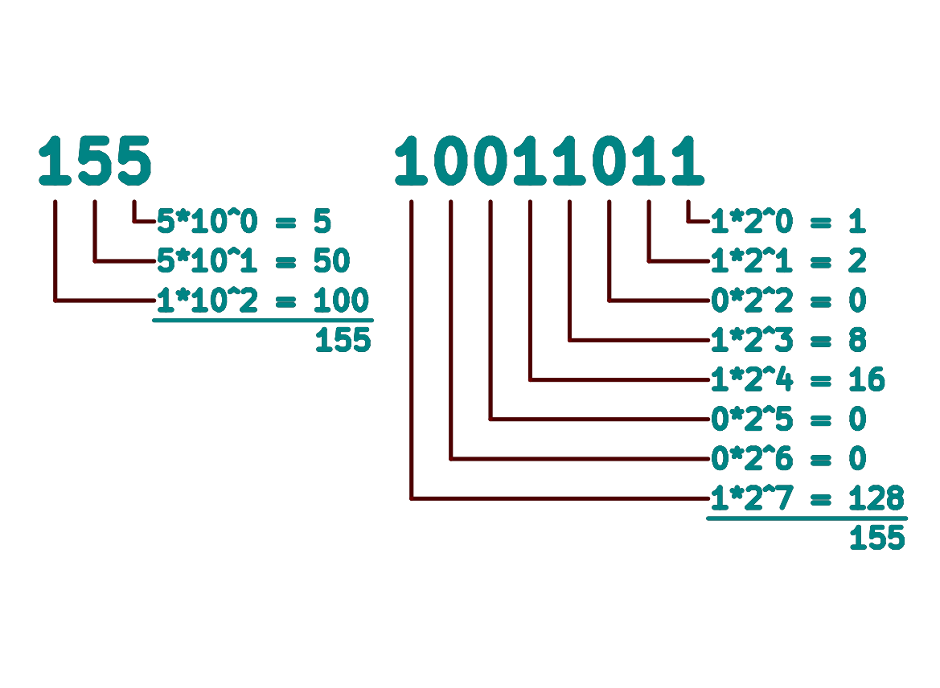
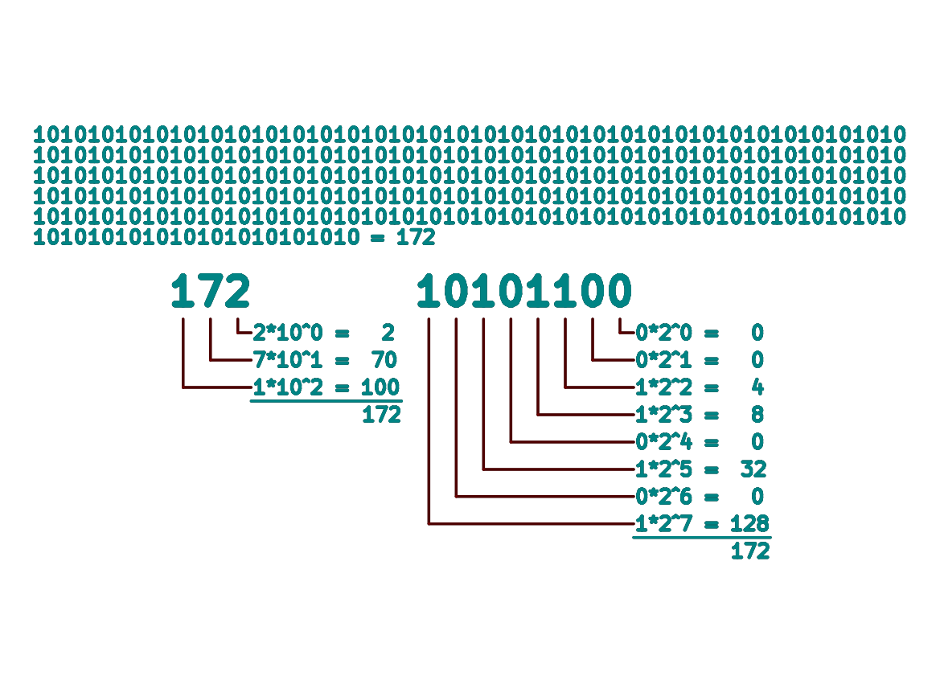
Added binary and modified some images.

Changed region(s): [[0.0309, 0.1831, 0.9872, 0.8241]]

diff --git a/text.md b/text.md
@@ -255,6 +255,12 @@ close and the linkage should have been correspondingly as simple. That is
 something you have to be careful about when using a purely mechanical
 communication scheme.
 
+Sometimes you have no choice but to require your mechanical parts to have very
+high precision with reliable techniques for aligning them and calibrating them.
+Optical components in a microscope are an example. Ideally, though, you can make
+your design tolerant to imperfections and misalignment and that sort of design
+talent can take years of experience to achieve.
+
 [Yet Another Transmitter](human-robot-transmitter)
 
 So the researcher wants you to go back to the drawing board and think of yet
@@ -353,6 +359,8 @@ resulting waveform looked horrible.
 I fixed the filter by putting smaller amplifiers after each stage instead of one
 big one at the end. Noise is always something you have to deal with properly in
 analog circuits to get good results.
+
+[Copy Degradation](copy-degradation)
 
 [Processor](processor)
 

diff --git a/digit.md b/digit.md
@@ -2,4 +2,4 @@
 layout: presentation
 ---
 
-[![](assets/img/digit.png)](processor)
+[![](assets/img/digit.png)](binary)

diff --git a/binary.md b/binary.md
@@ -1,0 +1,5 @@
+---
+layout: presentation
+---
+
+[![](assets/img/binary.png)](string)
